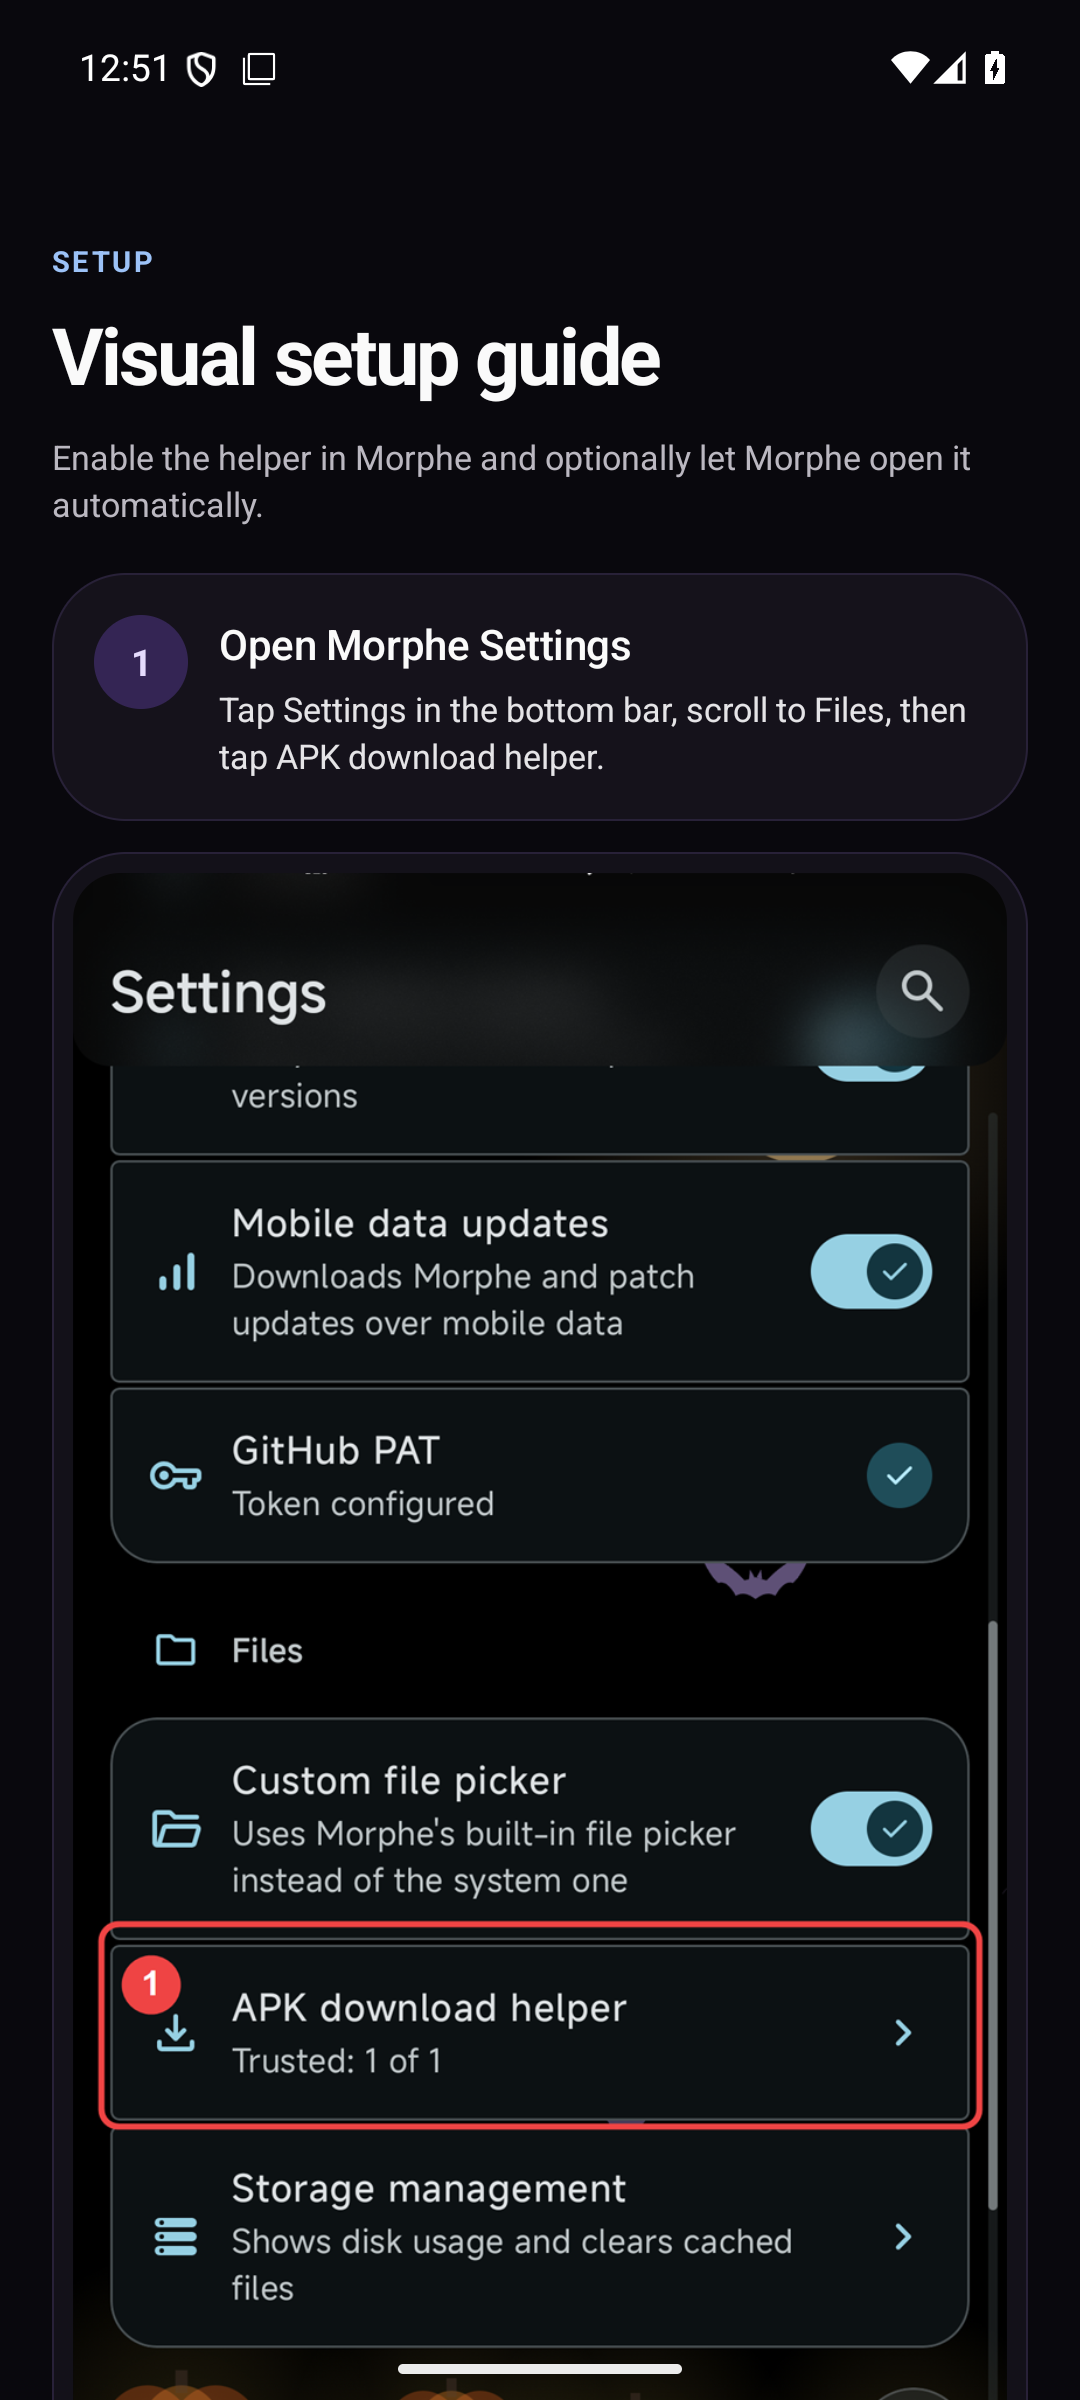
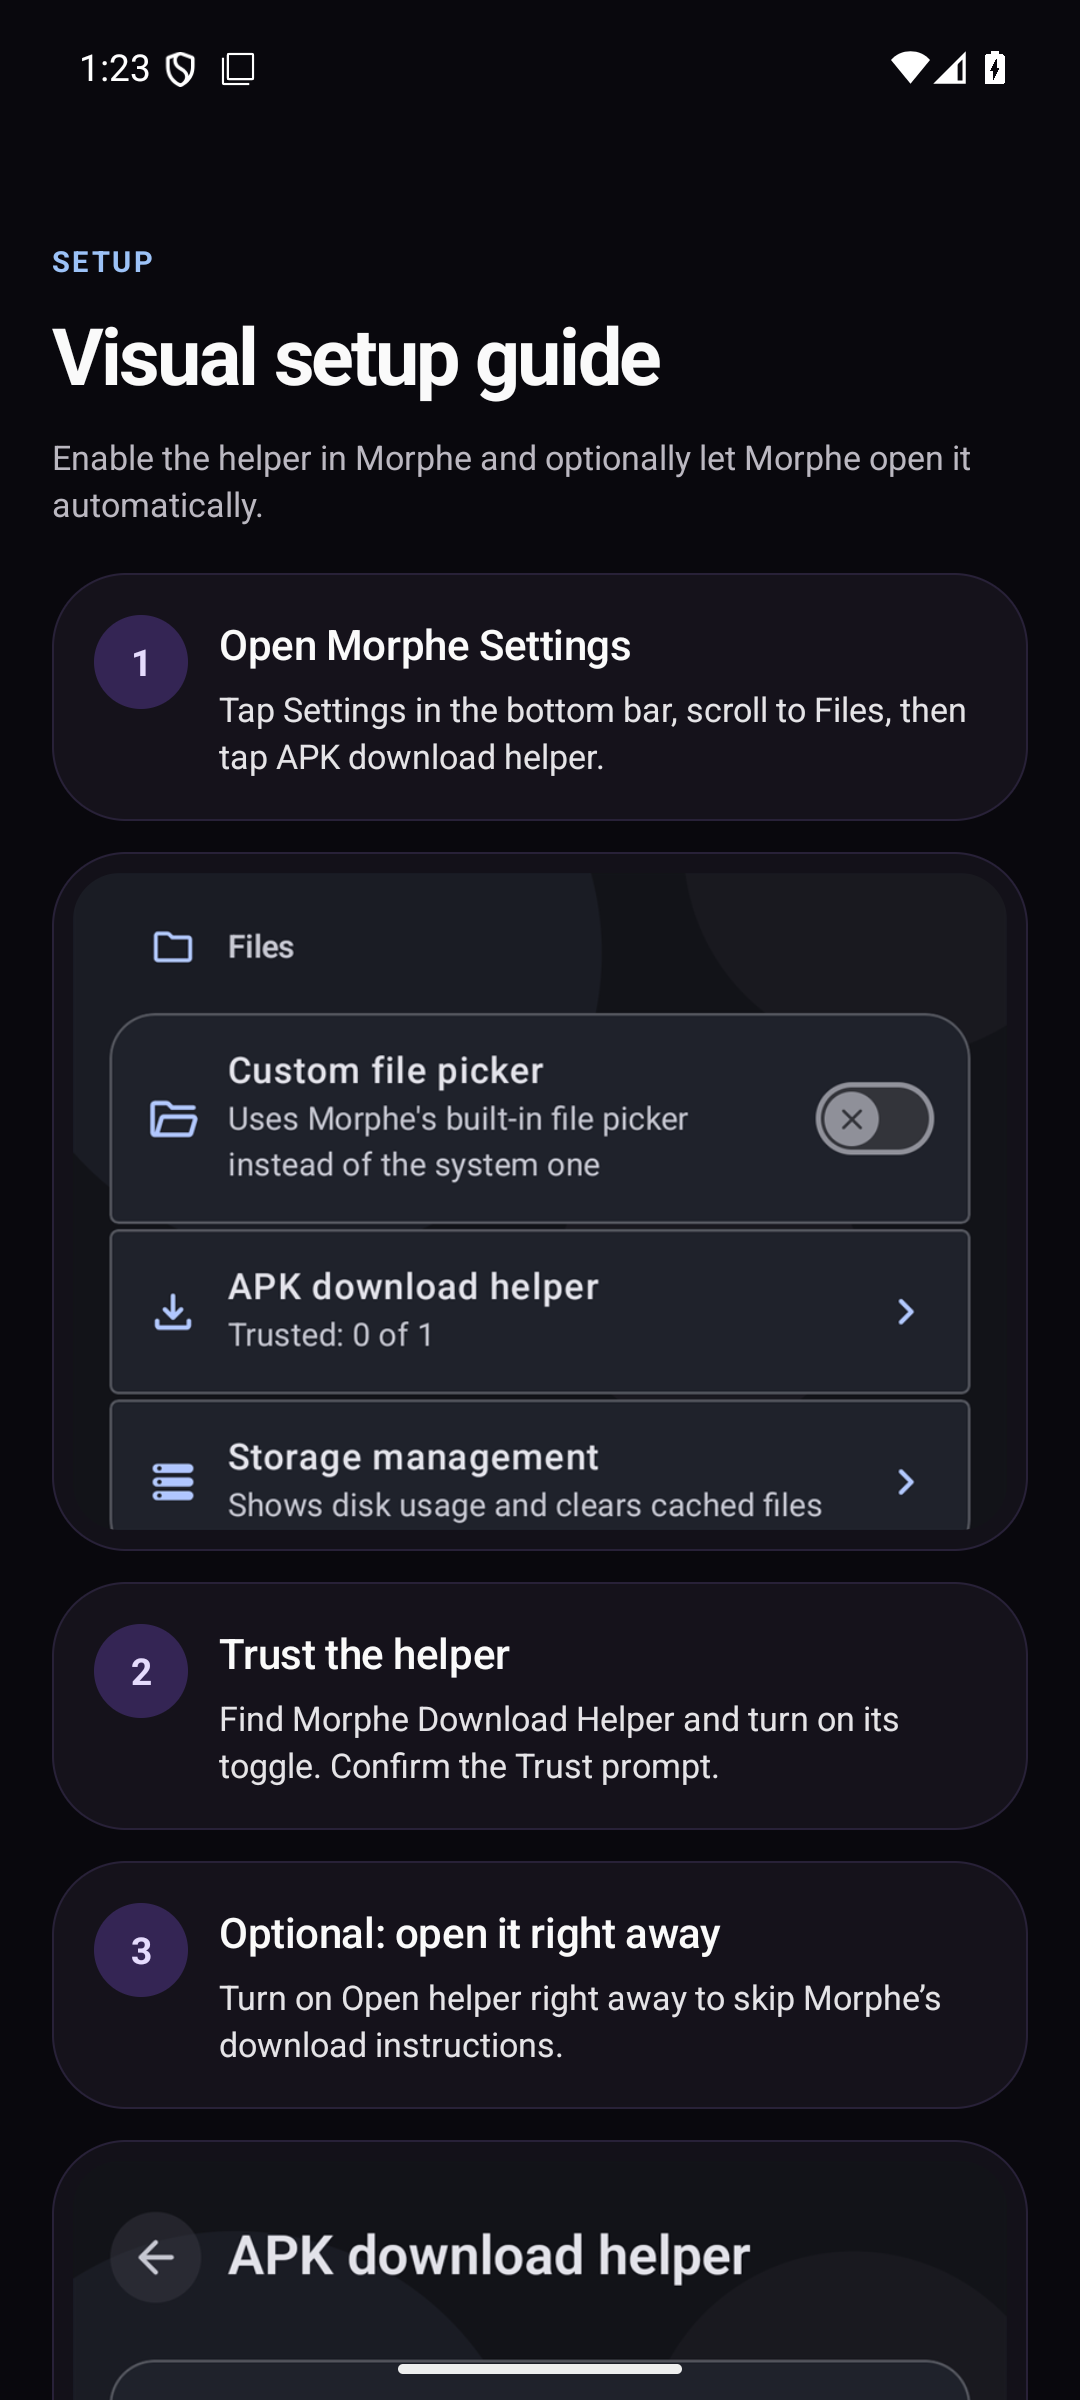
Refresh the visual guide screenshots for Morphe 2.7

Changed region(s): [[0.0611, 0.3438, 0.9472, 1.0], [0.3361, 0.3438, 0.55, 0.4062], [0.0917, 0.0, 0.2139, 0.0312]]

diff --git a/docs/MATERIAL3_EXPRESSIVE.md b/docs/MATERIAL3_EXPRESSIVE.md
@@ -182,7 +182,7 @@ See `docs/branding/material3/`:
 - `main-dark.png`, `main-light.png`, `main-amoled.png`
 - `settings-dark.png`
 - `appearance-dark.png`, `appearance-light.png`
-- `guide-dark.png`
+- `guide-dark.png`, `guide-dark-bottom.png`
 - `download-dark.png`, `download-failure-light.png`
 - `update-dark.png`
 - `sources-sheet.png`
